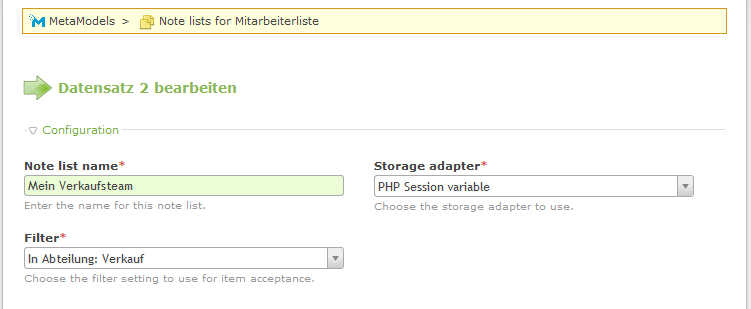
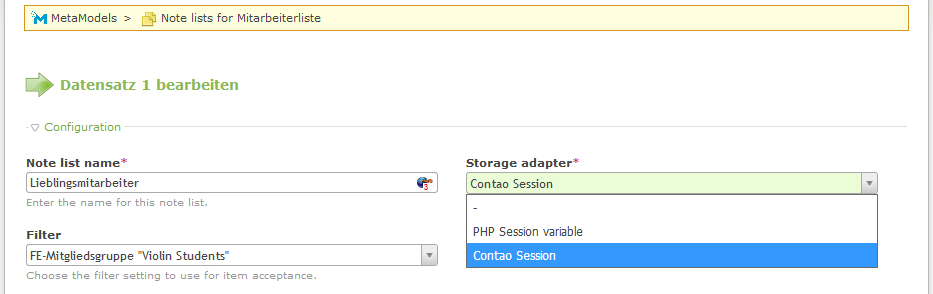
Notelist
Notelist

diff --git a/manual/extended/notelist.rst b/manual/extended/notelist.rst
@@ -60,10 +60,15 @@ gelangt.
 |img_notelist_icon|
 
 Legt man eine neue Merkliste an, so kann ein Name für die Merkliste vergeben werden.
-Als "Storage adapter" steht z.Z. nur die PHP-Session zur Verfügung - später kommen
-noch Adapter wie z.B. die Contao-Session hinzu. Über die Filterauswahl kann die
-Aufnahme auf Datensätze mit bestimmten Eigenschaften wie z.B. die "Abteilung"
-eingeschränkt werden.
+Als "Storage adapter" stehen z.Z. die PHP-Session und die Contao-Session zur Verfügung.
+Bei der Contao-Session werden die Werte einer Merkliste bei eingeloggten Mitgliedern
+automatisch in den Sessionwerten der Datenbank gespeichert und stehen bei erneutem
+Login wieder zur Verfügung.
+
+Über die Filterauswahl kann die Aufnahme auf Datensätze mit bestimmten Eigenschaften
+wie z.B. die "Abteilung" oder Mitgliedergruppen eingeschränkt werden. Die Filterung
+auf Mitgliedergruppen ist z.B. über die Erweiterung "`condition membergroup filter
+<https://github.com/cboelter/metamodels-filter_condition_membergroup>`_" möglich.
 
 |img_nodelist_config|
 
@@ -147,7 +152,8 @@ oder einzelne Items zu löschen.
 |img_nodelist_form_fe_list|
 
 Die Daten werden per E-Mail übertragen und können über das E-Mail-Template in der Ausgabe
-angepasst werden.
+angepasst werden. Für die Versendung stehen die Contao-Formularoption oder auch das
+"Notification Center (NC)" zur Verfügung.
 
 |img_notelist_email_list|
 
@@ -156,7 +162,7 @@ Known Issues and Next Features
 ------------------------------
 
 * nach Absenden des Formulars sind Elemente nicht aus Merkliste entfernt
-* optionale Angabe einer Anzahl fehlt
+* optionale Angabe einer Anzahl je Merkliste-Item fehlt
 
 
 InsertTags

diff --git a/cookbook/panels/dca-erweitern.rst b/cookbook/panels/dca-erweitern.rst
@@ -1,0 +1,14 @@
+.. _rst_cookbook_panels_regex:
+
+DCA erweitern
+=============
+
+MM Daten in Contao-Maske + Template
+
+DCA anpassen
+https://community.contao.org/de/showthread.php?56743-calendar-mit-Veranstaltungsorten-in-neuer-Tabelle-Daten-nicht-im-Template&p=366581&viewfull=1#post366581
+
+
+Daten in Maske
+https://community.contao.org/de/showthread.php?25265-Navigation-erweitern-Template-Variable-hinzuf%C3%BCgen&p=168509&viewfull=1#post168509
+
